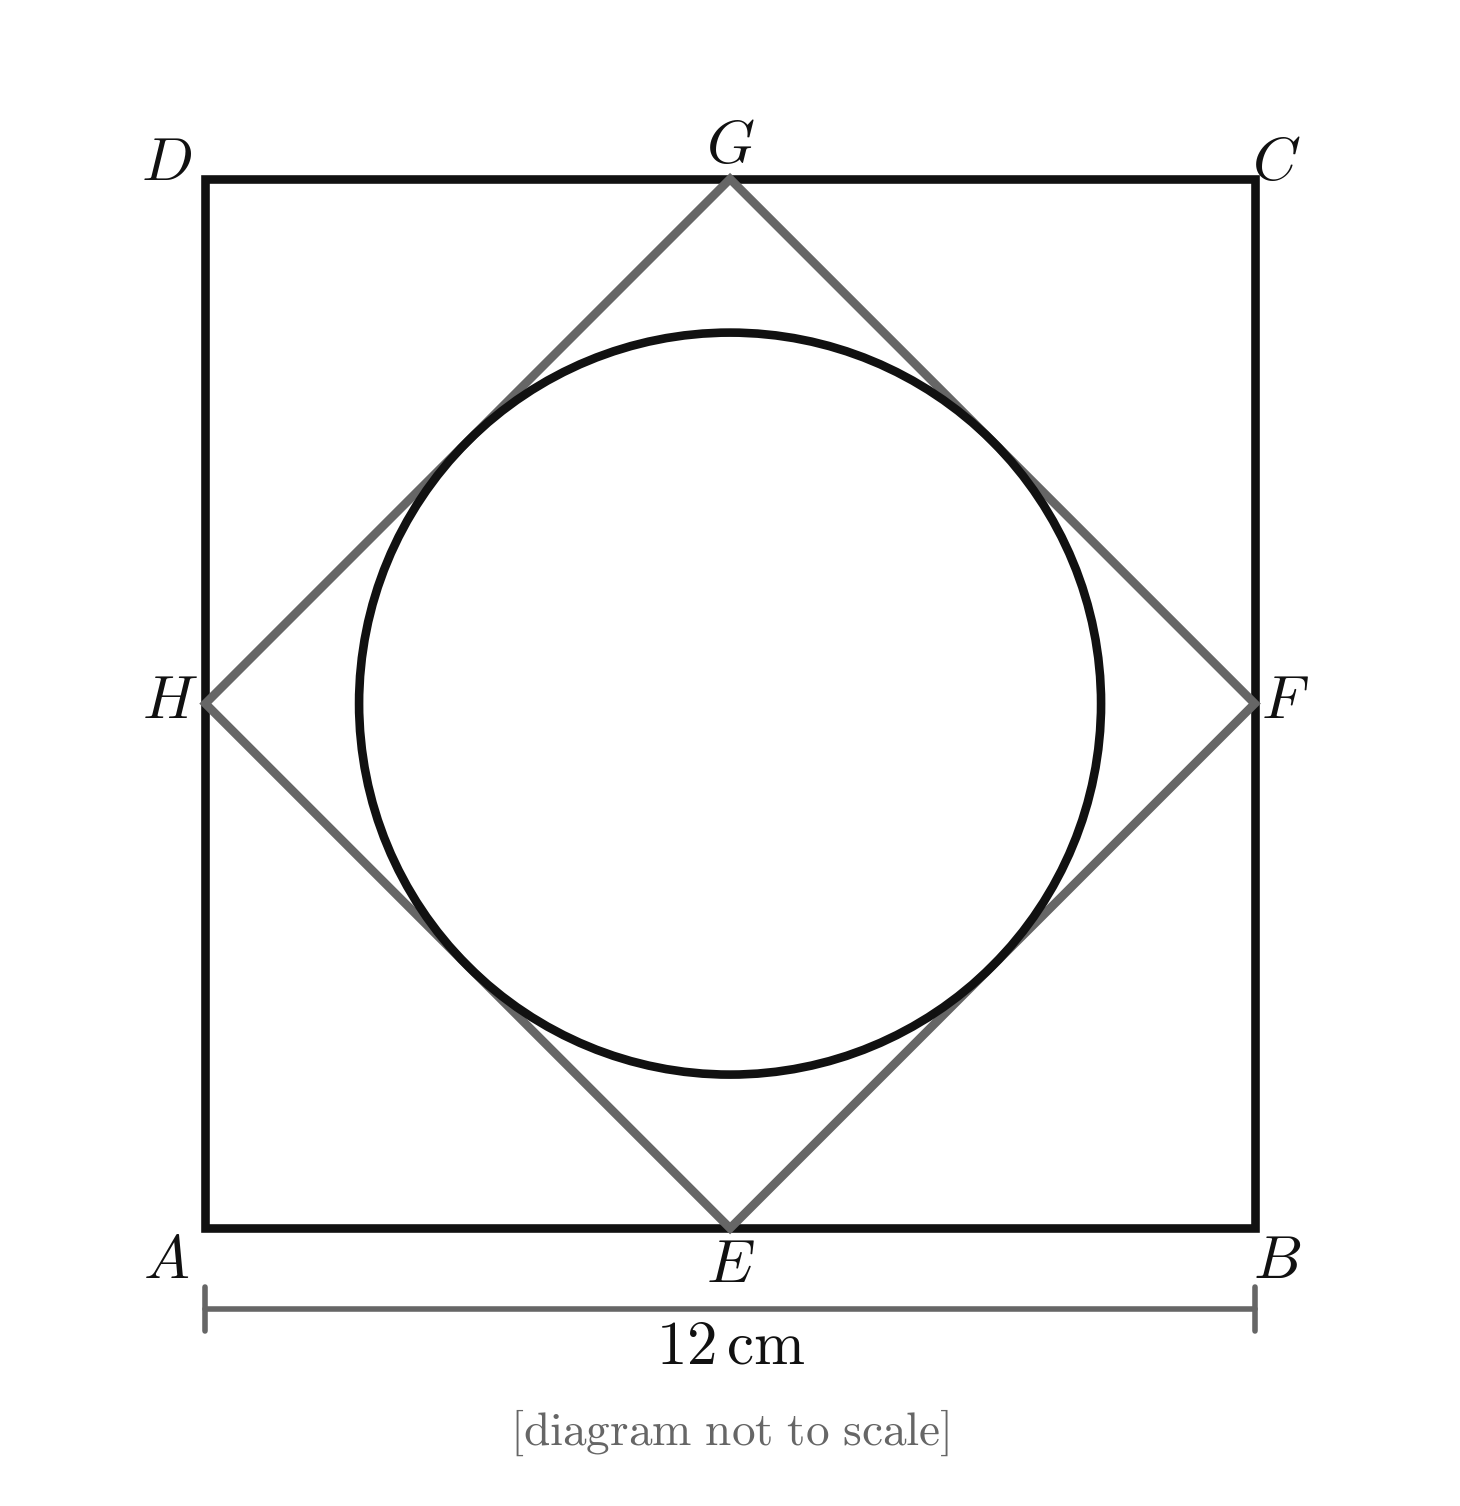
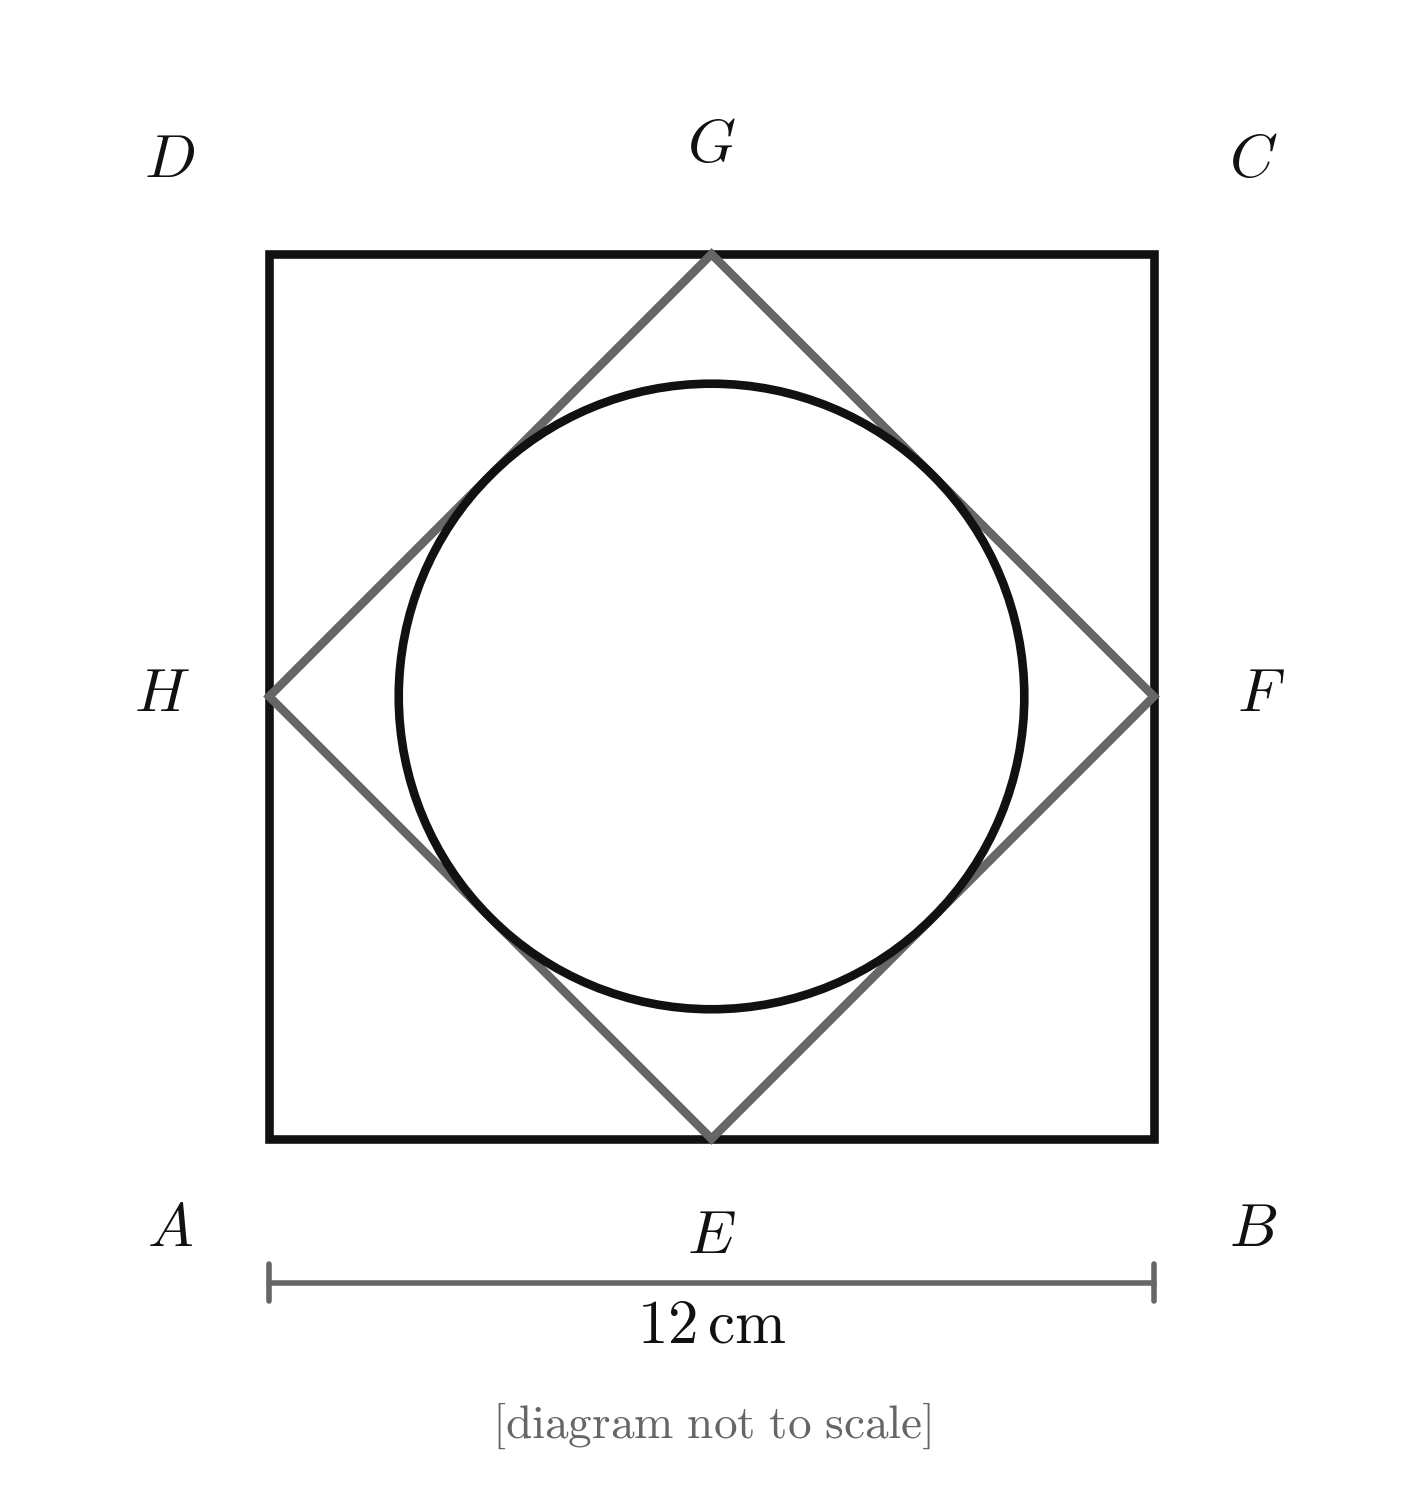
Polish Math 1 calibration diagram spacing and shorten end overlay.
Give Q1 labels more room from the figure and cut the post-exam spinner delay so results appear faster.

Changed region(s): [[0.0928, 0.0921, 0.8967, 0.9206], [0.3401, 0.9206, 0.4638, 0.982], [0.5566, 0.9206, 0.6493, 0.982]]

diff --git a/src/lib/pearson/usePearsonExamController.ts b/src/lib/pearson/usePearsonExamController.ts
@@ -44,7 +44,8 @@ import {
 } from "./preloadQuestionAssets";
 
 /** Blurred spinner after End Exam / End Module confirm (specimen player). */
-export const SESSION_ENDING_MS = 2800;
+/** Brief post-submit overlay before results (specimen-inspired, kept short). */
+export const SESSION_ENDING_MS = 700;
 
 /** Skip loading + NDA; open straight on the 1-minute instruction screen. */
 export type PearsonIntroMode = "full" | "section-only" | "resume-questions";

diff --git a/math1-calibration-final/render_reference_diagrams.py b/math1-calibration-final/render_reference_diagrams.py
@@ -78,24 +78,31 @@ def save(fig, filename):
 
 def q01():
     # Extra bottom room so the not-to-scale caption sits clearly below "12 cm".
-    fig, ax = canvas((-1.8, 13.8), (-3.2, 13.5))
+    # Labels sit further from the figure so letters do not crowd the outline.
+    fig, ax = canvas((-3.0, 15.0), (-4.0, 14.8))
     outer = [(0, 0), (12, 0), (12, 12), (0, 12)]
     inner = [(6, 0), (12, 6), (6, 12), (0, 6)]
     ax.add_patch(Polygon(outer, closed=True, fill=False, ec=INK, lw=LW))
     ax.add_patch(Polygon(inner, closed=True, fill=False, ec=MID, lw=LW))
     ax.add_patch(Circle((6, 6), 3 * math.sqrt(2), fill=False, ec=INK, lw=LW))
     labels = {
-        "A": (-0.45, -0.4), "B": (12.25, -0.4), "C": (12.25, 12.15), "D": (-0.45, 12.15),
-        "E": (6, -0.45), "F": (12.35, 6), "G": (6, 12.35), "H": (-0.4, 6),
+        "A": (-1.35, -1.25),
+        "B": (13.35, -1.25),
+        "C": (13.35, 13.25),
+        "D": (-1.35, 13.25),
+        "E": (6, -1.35),
+        "F": (13.45, 6),
+        "G": (6, 13.45),
+        "H": (-1.45, 6),
     }
     for label, (x, y) in labels.items():
         math_label(ax, x, y, rf"${label}$")
-    y = -0.92
+    y = -1.95
     ax.plot([0, 12], [y, y], color=MID, lw=1.0)
     ax.plot([0, 0], [y - 0.25, y + 0.25], color=MID, lw=1.0)
     ax.plot([12, 12], [y - 0.25, y + 0.25], color=MID, lw=1.0)
-    math_label(ax, 6, y - 0.15, r"$12\,\mathrm{cm}$", va="top")
-    caption(ax, 6, -2.75)
+    math_label(ax, 6, y - 0.25, r"$12\,\mathrm{cm}$", va="top")
+    caption(ax, 6, -3.55)
     save(fig, "q01-midpoint-incircle.png")
 
 
